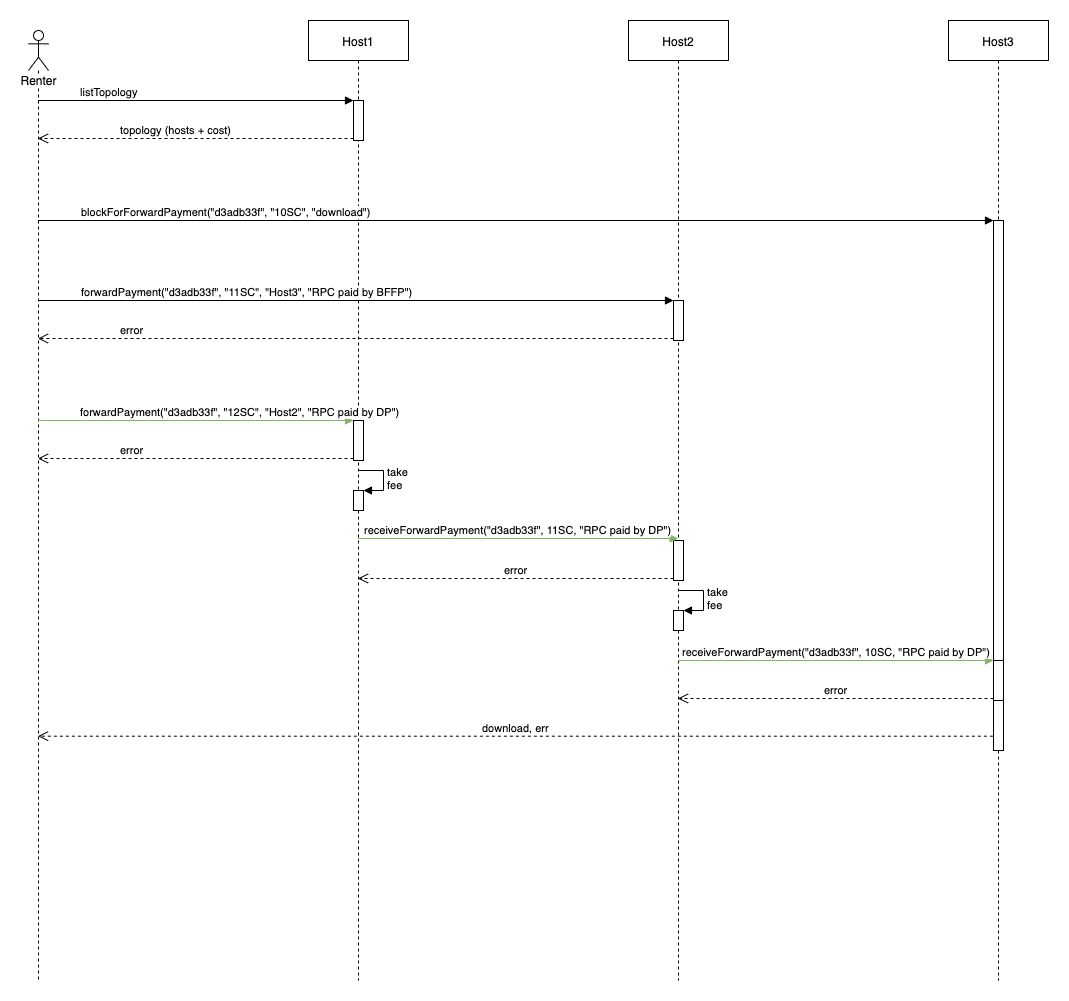
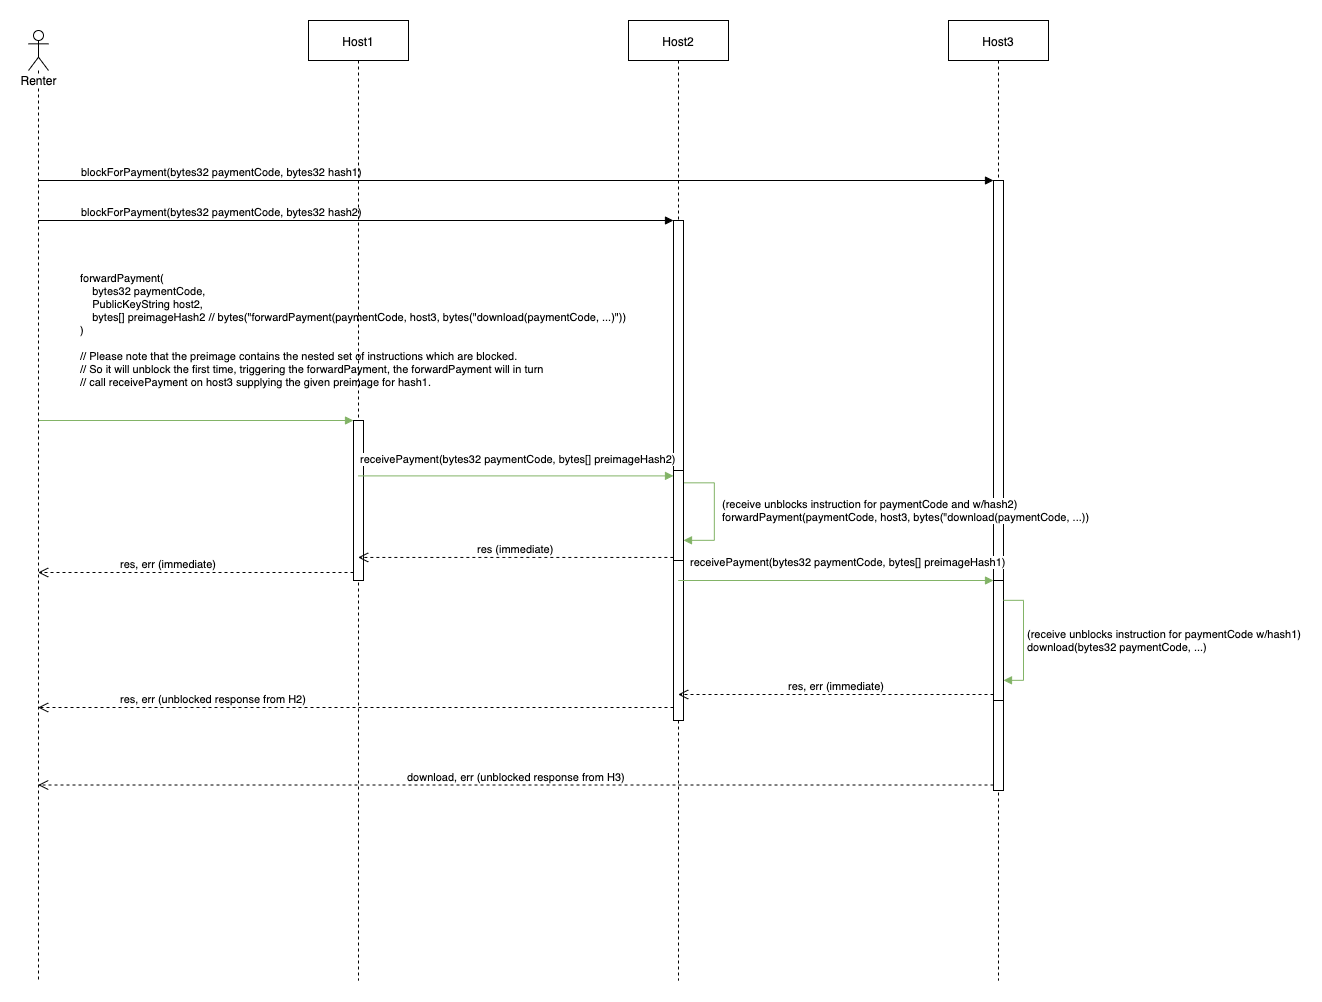
Further implement SIP-0002 and incorporate CR remarks

diff --git a/doc/sips/SIP-0002.md b/doc/sips/SIP-0002.md
@@ -10,44 +10,49 @@ outlined in the description.
 
 Payment routing is the act of routing a payment through potentially a series of
 interconnected hosts. This payment can originate from multiple types of sources,
-be it renters, hosts or even non-Sia users eventually. Routing payments
+be it renters, hosts or eventually even non-Sia users. Routing payments
 effectively enables performing actions on hosts with which you don't necessarily
-share an immediate link.
+share an immediate payment link.
 
 ## Motivation
 
-Payment routing serves as the basis for any use case where the end user does not
-necessarily have an existing active file contract with the host they are
-interacting with, nor do they have to be a Sia user per se. By being able to
-forward payments on behalf of others, you can leverage already existing
-contracts between hosts which act as payment channels.
-
-This enables a myriad of possibilities for 3rd parties to build new and exciting
-file publishing services atop of Sia. Such as CDNs, websites, file sharing,
-pay-per-view content streaming services and so on. These all share the same base
-requirement which is the necessity of being able to make a payment on behalf of
-somebody else.
-
-It is interesting to note that in theory this system could support any action
-that is currently possible on the host that requires payment, e.g. uploading.
-That said we are solely focussing on the download usecase for now.
+Two of the most attractive use cases for Sia are filesharing and content
+distribution. For both cases, a user will often be required to make a
+micropayment to a host, where they don't have a pre-existing payment channel to
+that host. By implementing payment routing we enable anybody that has an
+existing payment channel with a host, to pay those hosts on behalf of somebody
+else. These pre-paid actions can then be reclaimed by anyone who owns the
+payment code. This way a user can fulfil an action on a host without necessarily
+paying for it in that same requests. Which has been the case up until now.
 
 ## Concepts
 
 ### Host Topology
 
 In order for hosts to forward payments amongst each other they will need to be
-connected and share a channel through which two-way payments are possible. A
-host's topology is comprised of a list of hosts he knows how to reach. These
-'connected hosts' are not necessarily immediate neighbours, it is very possible
-they are one or even multiple hops away. The only thing that's important is that
-the host knows how to reach it and forward a payment. Hosts advertize in their
-topology both a price and a speed for every edge in their topology.
+connected and share some form of payment channel. A host's topology is comprised
+of a list of hosts he is connected with. These 'connected hosts' are not
+necessarily immediate neighbours, it is very possible they are one or even
+multiple hops away. The only thing that's important is that the host knows how
+to reach it and forward a payment to it, either directly over a payment channel
+our through a series of hops. Hosts advertize in their topology both a price and
+a latency for every host.
+
+### Payment Code
+
+A payment code is the unique 16 bytes number that represents an action on the
+host that may or may not have already been pre-paid by somebody else in behalf
+of the user requesting the action to be performed.
+
+Instead of all payments being required to come from either a siacoin input or by
+being paid through the file contract, we should add an option to all of our
+payment RPCs (including Form Contract and Renew Contract) to instead accept an
+outsourced payment by supplying it with a payment code.
 
 ### Payment Channel
 
 In order to route a payment there needs to be a payment vessel between two
-hosts, ideally two-way.
+hosts, ideally two-way but this is no strict requirement, it can be one way.
 
 Through the use of file contracts, where we use a merkle root of 0 and
 completely ignore the necessity to provide a storage proof, we can create such a
@@ -74,16 +79,25 @@ devise an algorithm that automatically rebalances these channels to avoid the
 otherwise necessary renewal of a FileContract. However for the time being the
 plan is to settle the contract and recreate it when this event occurs.
 
-This paper on [Scalable Funding of MicroPayment Networks](#https://tik-old.ee.ethz.ch/file//a20a865ce40d40c8f942cf206a7cba96/Scalable_Funding_Of_Blockchain_Micropayment_Networks%20(1).pdf)
-proposes a neat solution that introduces the concept of Channel Factories.
-Might be worth looking into in the future.
+#### Pricing
+
+Hosts that have a payment channel open with another host will have to publish
+prices for routing a payment. These prices are made public through the host's
+topology. We have a number of options here on how to implement this pricing
+schedule. Some thoughts/requirements
+
+- Hosts should be able to arbitrarily set the fee they want to charge for
+  payment routing
+- Seeing as a depleted channel requires a renewal of a contract, and thus
+  requires fees to be paid, it might make sense to charge more if you want to
+  wire a payment through a channel that will get depleted as the result of it
 
 ### Forwarded Payments
 
 A forwarded payment is the introduction of payments which originate not from a
 siacoin input nor a file contract but an outsourced place. Effectively making
 payment in behalf of somebody that requested it. Forwarded payments are based on
-a unique code the user provides, a 12 byte random number. They will call the
+a unique code the user provides, a 16 byte random number. They will call the
 host they want to download data from and provide them with said code telling
 them to 'block for payment'. Meanwhile payment is routed through a known host by
 calling 'receive forwarded payment' on his behalf, when this reaches a
@@ -92,107 +106,143 @@ completes. For more detailed descriptions see the [RPC section](#RPCs)
 
 ## RPCs
 
-There are 4 new RPCs required to cover all of the functionality outlined above.
+To cover all functionality required for payment routing we will introduce a
+couple of new RPC instructions.
 
 ### `listTopology`
 
-RPC called on host to retrieve the list of hosts that can be reached, together
-with a price and latency for every edge in the graph. Renters can use this to
-build up the entire network topology and make a decision on where to route the
-payment
+Called on the host to retrieve the list of hosts that it can reach, together
+with a routing cost and latency for every host. The caller can use this to build
+up the entire network topology and make a decision on how to route the payment.
 
-### `blockForForwardPayment`
+```Go
+// Topology describes the set of hosts a host is connected to and is able to
+// route a payment towards.
+type Topology struct {
+    host    PublicKeyString,    `json:"host"`
+    links   []Link       `json:"links"`
+}
 
-Instead of all payments being required to come from either a siacoin input or by
-being paid through the file contract, we should add an option to all of our
-payment RPCs (including Form Contract and Renew Contract) to instead accept a
-payment from an outsourced place.
-
-This means that uploading could also happen from outsourced payments, though the
-general intention is to enable downloads through outsourced payments, allowing
-users to download data from hosts that they don't have file contracts with.
-
-When requesting an outsourced payment, the user will provide a code (ideally
-encrypted) that the host should wait for. If the code is a code that the host is
-already waiting for (on some other connection),the host should return an error.
-If the code is a unique code (which it should be, as a 12 byte random number),
-then the host will block until either there has been a timeout, or until the
-block is released by another rpc receiving the outsourced payment.
-
-### `receiveForwardPayment`
-
-This RPC is used by someone to pay on another person's behalf. The host keeps in
-memory a list of payment codes where the host is awaiting payment. The host
-stores both the code itself, and the amount of money that it requires from that
-code.
-
-In this RPC, the person on the other end of the contract makes a payment,
-specifying the code that the payment is being made for. If the host recognizes
-the code but the amount is insufficient, an error is returned. If the amount is
-sufficient and the payment code is recognized, the host signs the payment and
-then unlocks the blocking element on the other side of the payment code.
-
-If the payment code is not recognized, the host assumes that this is prepayment
-for a future download that is going to be made. The host will add this code to
-the list of codes that will allow the host to unblock right away, saving the
-code itself and the corresponding value. The host will return to the payment
-provider a special code indicating that this code is being accepted as a
-pre-payment. The host will also provide a timeout, after which the payment is
-void. This behavior is important for CDN functionality, allowing websites to
-pre-pay for user downloads that will happen in the future.
+// Link defines a payment link between two hosts, it has a certain cost which is
+// a variable cost of routing and a latency
+type Link struct {
+    host        PublicKeyString,    `json:"host"`
+    cost        types.Currency      `json:"cost"`
+    latency     time.Duration,      `json:"latency"`
+}
+```
 
 ### `forwardPayment`
 
-This RPC is used to tell a host to forward a payment (presumably to another
+This RPC is used to instruct a host to forward a payment (presumably to another
 host). A payment is made, and a payment code is provided. The host will then
 take a small fee, and use a payment channel that they have to forward the
 payment to the provided destination.
 
-It's entirely possible that the destination host is blocking on their own
-'Forward Payment' RPC, which means a renter that knows enough of the routing
-table can easily orchestrate a multi-hop outsourced payment.
+A forward payment RPC always contains payment instructions, along with a
+destination host on which to call receivePayment. Providing the host knows about
+the destionation host, a forward RPC call is always succeeded with a
+`receivePayment` RPC to the destination host. Receive payment in turns usually
+unlocks an instruction which had been blocked until payment was received.
+
+### `blockForPayment` and `receivePayment`
+
+The `blockForPayment` and `receivePayment` are arguably the most important RPC
+calls for this feature. We describe them together because they are fundamentally
+entangled with one another. As we will outline they need each other's
+information in order to be properly fulfilled or processed.
+
+Block for payment is named as such because it will effectively block execution
+of a certain RPC instruction until it has received payment to fulfil said
+instruction. Receive payment then on the other hand has the power to lift such a
+block and effectively execute the awaiting instruction. The `blockForPayment`
+has supplied us with a payment code and hash, the `receivePayment` RPC however
+supplies us with the preimage of said hash. Only if those match the contents of
+the preimage image are executed, which is an RPC instruction set.
+
+Let's look at everything that can happen when either of these calls is received
+by a host:
+
+When a `blockForPayment` RPC call is received the host will either:  
+a) block execution of the given RPC instruction until payment is made, if the
+payment code is unknown. Please note this block is uplifted if a predefined
+timeout expires  
+b) return an error if the provided payment code is already known to the
+host but the stored preimage does not equal the provided hash  
+c) execute the given RPC instruction if the payment code is already known to the
+host and the given hash matches the stored preimage
+
+When a `receivePayment` RPC call is done on a host, it will either:  
+a) return an error, if payment code is known but data is invalid. This happens
+when the given data (preimage) for a certain payment code does not correspond
+with the hash provided by `blockForPayment`, due to an insufficient amount for
+example  
+b) receive payment and unblock the corresponding RPC call, if payment code is
+known and data is valid  
+c) treat payment as pre-paid, if payment code is unknown. This will effectively
+process the payment and keep all necessary information in memory and await a
+future `blockForPayment` call which will resolve immediately if the payment code
+is known and the given hash is the hash resulting from the preimage.
 
 ## Routing Example
 
 The following is a graphical overview of the requests necessary to forward a
 payment in a multi-hop payment route. In the diagram below we assume the renter
-is trying to download a piece of data from H3 however he only has an active
+is trying to download from H3 however he only has an active
 contract with H1.
 
 Please note that the underlying system will be built in such a way that the
-renter does not need to perform these calls in a certain order. They can be
-fired in whichever sequence, the code should be able to await potential future
-requests. However for sake of reasoning these requests happen in a logical
-sequential order.
+renter does not need to perform these calls sequentially, or in any order for
+that matter. Instead the renter will fire off all of these requests in
+parallell.
 
-1. The renter builds in memory a complete topology of the network, he does this
-   by calling `listTopology` on every host he is connected with and builds up
-   the graph in memory. This is not shown on the diagram for simplicity.
+We assume the renter has used the `listTopology` RPC call to query all the hosts
+he is connected to and build a topology of the network. This way he found out he
+can reach H3 through H1.
 
-2. When he has decided on a route that is cheapest (or perhaps more expensive
-   but faster) he will perform a set of calls to every hop in the route, here
-   the route consists of H1->H2->H3.
+1. Renter sends a `blockForPayment` RPC request to H3, providing a payment
+   code and hash which should correspond with a preimage delivered by
+   `receivePayment`. It is this preimage that contains the instruction RPC set
+   that needs to be paid for, and which will execute when this payment has been
+   received. In this case the corresonding preimage at H3 contains the download
+   RPC instructions.
 
-3. He makes a request to H3 to `blockForForwardPayment`, providing a code, cost
-   and instruction he wants executed. In this case a download
+2. Renter sends a `blockForPayment` RPC request to H2, providing a payment
+   code and hash which should correspond with a preimage delivered by
+   `receivePayment`. It is this preimage that contains the instruction RPC set
+   that needs to be paid for, and which will execute when this payment has been
+   received. In this case the corresonding preimage at H2 contains the forward
+   RPC instructions.
 
-4. He sends `forwardPayment` requests to every intermediate host in the route,
-   again supplying the same code but every time a different cost as the fees
-   subtracted very for every host
+3. Renter sends a `forwardPayment` RPC request to H1, providing a payment code,
+   a destination host and a preimage. This preimage will contain RPC
+   instructions that require the payment.
 
-5. Lastly he sends a `forwardPayment` to the first host in the route.
+4. H1 will accept the payment and forward it by calling the `receivePayment` RPC
+   on the destination host (in this case H2) given the supplied preimage.
 
-6. Upon receiving payment a host will either unblock an action if it had been
-   blockedForForwardPayment, or it will call `receiveForwardPayment` on the next
-   host in the route
+5. H2 will receive this `receivePayment` RPC and realize it had a
+   `blockForPayment` with a matching payment code, and more importantly the
+   given preimage hashes to the already supplied hash. If so it will unblock
+   that as it has now received payment. The unblocked RPC is a `forwardPayment`
+   call instructing it to send payment to H3.
+
+6. H3 will receive this `receivePayment` RPC and realize it had a
+   `blockForPayment` with a matching payment code, and more importantly given
+   preimage hashes to the already supplied hash. It will unblock that call
+   as it has now received payment. The unblocked RPC is a `download` call
+   originating from the renter.
 
 ![Screenshot](../assets/paymentrouting.png)
 
 ## Implementation Steps
 
-1. add RPCs
+1. Extend RPC instruction set
+
 2. hosts must have forwards
+
 3. renter can build topology
+
 4. pull it all together
 
 [TODO: add MRs for every step]
